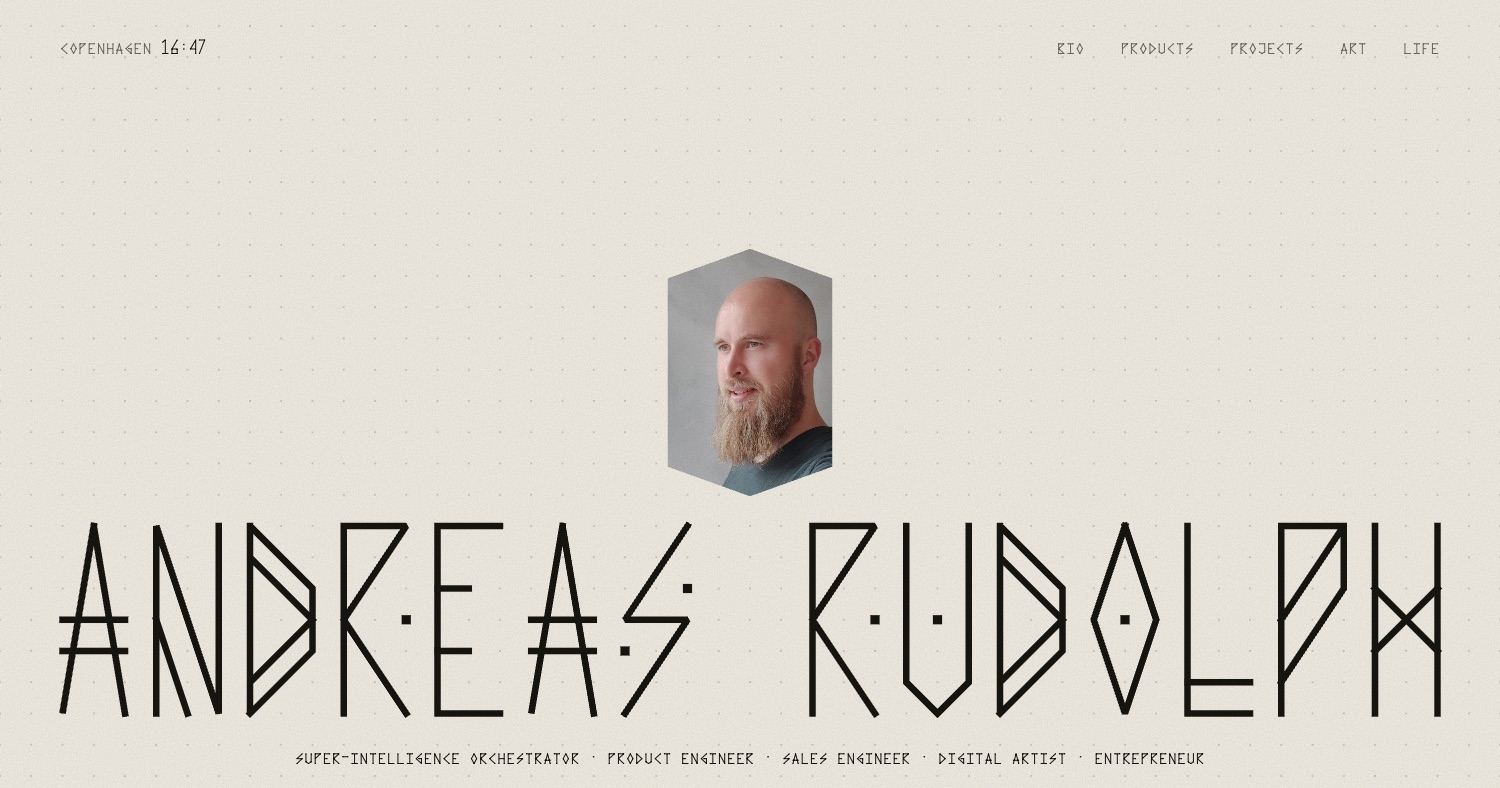
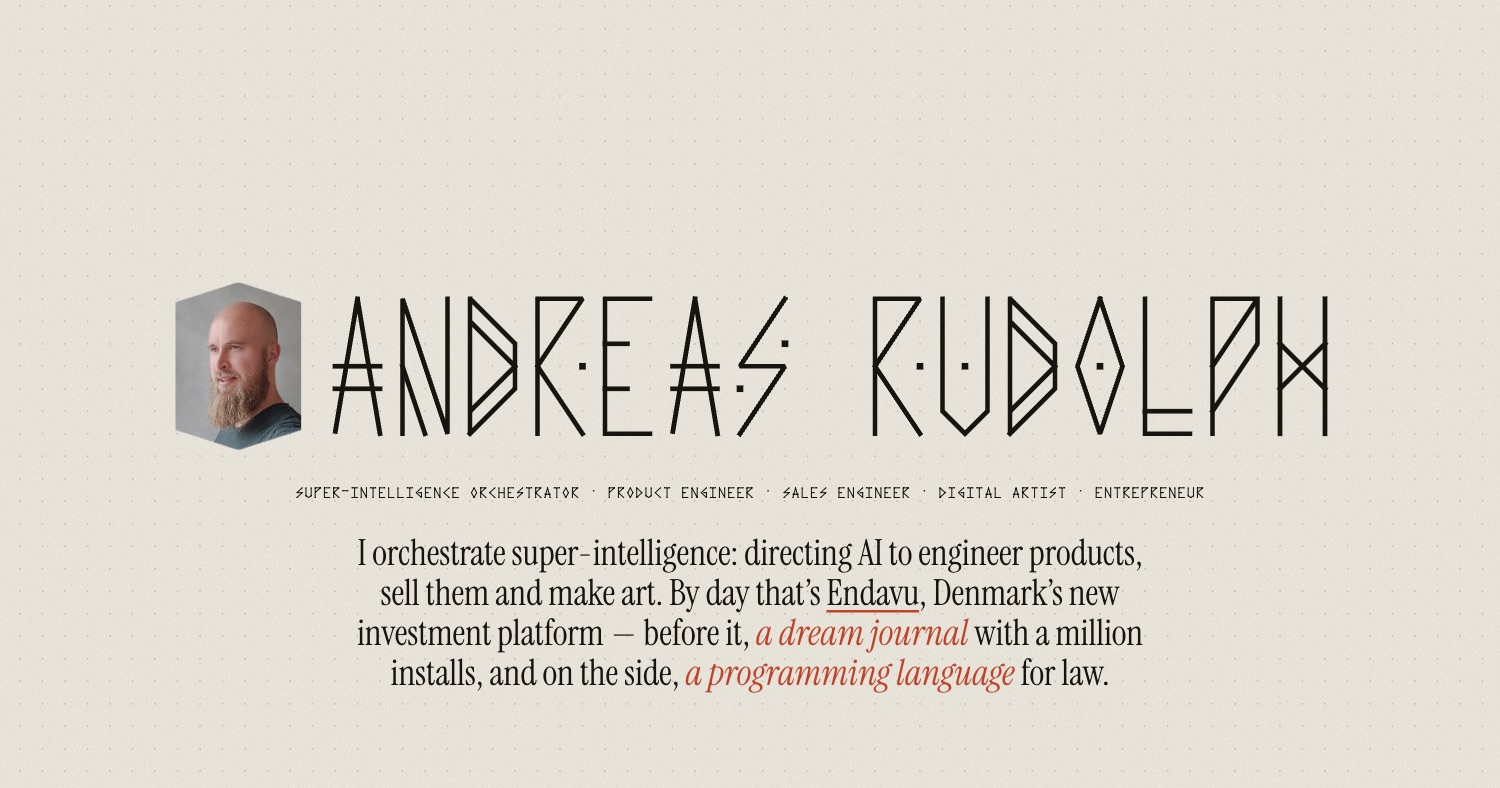
Hero: photo and name side by side, centred together; wider portrait crop on the face

diff --git a/index.html b/index.html
@@ -21,9 +21,9 @@
   <link rel="icon" href="/assets/favicon.svg" type="image/svg+xml">
   <link rel="preload" href="/assets/fonts/RunionNeo.woff2" as="font" type="font/woff2" crossorigin>
   <link rel="preload" href="/assets/fonts/InstrumentSerif-Regular.woff2" as="font" type="font/woff2" crossorigin>
-  <link rel="stylesheet" href="/assets/style.css?v=8c414fff7b">
+  <link rel="stylesheet" href="/assets/style.css?v=888e4a3266">
   <script>try{if(localStorage.getItem('mode')==='dream')document.documentElement.dataset.mode='dream'}catch(e){}</script>
-  <script type="module" src="/assets/main.js?v=833c204915"></script>
+  <script type="module" src="/assets/main.js?v=9fe5629abb"></script>
   <script type="application/ld+json">
   {"@context":"https://schema.org","@type":"Person","name":"Andreas Rudolph","url":"https://andreas-rudolph.me/","jobTitle":"Principal Product Engineer, Web & Android","worksFor":{"@type":"Organization","name":"Endavu","url":"https://endavu.com"},"description":"A Danish super-intelligence orchestrator, product engineer, sales engineer, digital artist and entrepreneur — and a father.","nationality":{"@type":"Country","name":"Denmark"},"homeLocation":{"@type":"Place","name":"Copenhagen, Denmark"},"sameAs":["https://www.linkedin.com/in/andreasrudolph","https://x.com/OneManMobile","https://github.com/OneManMobile"]}
   </script>
@@ -44,8 +44,10 @@
       </nav>
     </div>
     <div class="hero-stack">
-      <img class="hero-portrait" src="/assets/img/portrait.jpg" width="460" height="460" alt="Portrait of Andreas Rudolph">
-      <h1 class="hero-name" data-name-box><span class="sr-only">Andreas Rudolph</span></h1>
+      <div class="hero-ident">
+        <img class="hero-portrait" src="/assets/img/portrait.jpg" width="460" height="460" alt="Portrait of Andreas Rudolph">
+        <h1 class="hero-name" data-name-box><span class="sr-only">Andreas Rudolph</span></h1>
+      </div>
       <p class="label hero-role"><span>super-intelligence orchestrator</span> <span>· product engineer</span> <span>· sales engineer</span> <span>· digital artist</span> <span>· entrepreneur</span></p>
       <p class="lede">I orchestrate super-intelligence: directing AI to engineer products, sell them and make art. By day that’s <a href="https://endavu.com">Endavu</a>, Denmark’s new investment platform&thinsp;—&thinsp;before it, <em>a dream journal</em> with a million installs, and on the side, <em>a programming language</em> for law.</p>
       <p class="label swap hero-hint">

diff --git a/assets/style.css b/assets/style.css
@@ -134,18 +134,28 @@ a.label:hover { color: var(--accent); }
   text-align: center;
 }
 .hero-stack--page { align-items: flex-start; justify-content: flex-end; padding-top: clamp(64px, 12vh, 140px); text-align: left; }
+/* photo and name sit side by side; the pair is centred as one unit */
+.hero-ident {
+  align-self: stretch;
+  display: flex;
+  align-items: center;
+  justify-content: center;
+  gap: clamp(16px, 2.2vw, 36px);
+}
 .hero-portrait {
   display: block;
-  width: clamp(112px, 11vw, 168px);
+  flex: none;
+  width: clamp(92px, 8.4vw, 136px);
   height: auto;
-  aspect-ratio: 2 / 3;
+  aspect-ratio: 3 / 4;
   object-fit: cover;
-  object-position: 60% 30%;
+  object-position: 80% 30%;
   clip-path: var(--hex);
   animation: rise 1.2s .1s cubic-bezier(.2, .7, .1, 1) both;
 }
-/* the canvas draws the name inside this box; script sets its height */
-.hero-name { width: 100%; height: 160px; margin: 0; }
+/* the canvas draws the name inside this box; the script sizes it */
+.hero-name { flex: none; height: 120px; margin: 0; }
+.hero-stack--page .hero-name { width: 100%; }
 .hero-role { margin: 0; max-width: 64em; color: var(--ink); animation: rise 1.4s 1.35s cubic-bezier(.2, .7, .1, 1) both; }
 .hero-role span { white-space: nowrap; }
 .lede {
@@ -267,7 +277,7 @@ a.label:hover { color: var(--accent); }
 .bio-head .about-big { margin: 0; }
 .bio-head > :only-child { grid-column: 1 / -1; }
 .portrait { margin: 0; display: grid; gap: 12px; justify-items: center; }
-.portrait img { display: block; width: 100%; height: auto; aspect-ratio: 2 / 3; object-fit: cover; object-position: 60% 30%; clip-path: var(--hex); transition: filter .9s ease; }
+.portrait img { display: block; width: 100%; height: auto; aspect-ratio: 3 / 4; object-fit: cover; object-position: 80% 30%; clip-path: var(--hex); transition: filter .9s ease; }
 @media (hover: hover) {
   .portrait img { filter: grayscale(1) contrast(1.06); }
   .portrait:hover img { filter: none; }

diff --git a/assets/main.js b/assets/main.js
@@ -76,13 +76,20 @@ function createField(canvas, hero) {
   const box = hero.querySelector('[data-name-box]');
 
   function layout() {
-    const bw = box.clientWidth;
+    // front page: the name gets whatever width the photo leaves; sub-pages: the full column
+    const row = box.parentElement;
+    const photo = isPage ? null : row.querySelector('.hero-portrait');
+    const avail = photo
+      ? row.clientWidth - photo.offsetWidth - (parseFloat(getComputedStyle(row).columnGap) || 0)
+      : box.clientWidth;
     const words = TEXT.split(' ');
-    const oneLine = words.length === 1 || bw >= 820;
+    const fullCols = TEXT.length * 3 - 1;
+    const oneLine = words.length === 1 || avail / fullCols >= (isPage ? 12 : 13);
     const lines = oneLine ? [TEXT] : words;
     const wCols = Math.max(...lines.map((l) => l.length)) * 3 - 1;
     const hRows = lines.length * 6 + (lines.length - 1) * 3;
-    p = Math.max(8, Math.floor(Math.min(bw / wCols, isPage ? 34 : 26)));
+    p = Math.max(6, Math.floor(Math.min(avail / wCols, isPage ? 34 : 18)));
+    if (photo) box.style.width = `${wCols * p}px`;
     box.style.height = `${hRows * p}px`;
 
     const r = canvas.getBoundingClientRect();
@@ -91,15 +98,14 @@ function createField(canvas, hero) {
     dpr = Math.min(window.devicePixelRatio || 1, 2);
     canvas.width = Math.round(W * dpr);
     canvas.height = Math.round(H * dpr);
-    ox = Math.round(b.left - r.left + (isPage ? 0 : (bw - wCols * p) / 2));
+    ox = Math.round(b.left - r.left);
     oy = Math.round(b.top - r.top);
 
     cells = [];
     lines.forEach((line, li) => {
-      const shift = isPage ? 0 : Math.round((wCols - (line.length * 3 - 1)) / 2);
       Array.from(line).forEach((ch, ci) => {
         if (ch === ' ') return;
-        cells.push({ ch, col: shift + ci * 3, row: li * 9, idx: cells.length });
+        cells.push({ ch, col: ci * 3, row: li * 9, idx: cells.length });
       });
     });
 

diff --git a/art/index.html b/art/index.html
@@ -21,9 +21,9 @@
   <link rel="icon" href="/assets/favicon.svg" type="image/svg+xml">
   <link rel="preload" href="/assets/fonts/RunionNeo.woff2" as="font" type="font/woff2" crossorigin>
   <link rel="preload" href="/assets/fonts/InstrumentSerif-Regular.woff2" as="font" type="font/woff2" crossorigin>
-  <link rel="stylesheet" href="/assets/style.css?v=8c414fff7b">
+  <link rel="stylesheet" href="/assets/style.css?v=888e4a3266">
   <script>try{if(localStorage.getItem('mode')==='dream')document.documentElement.dataset.mode='dream'}catch(e){}</script>
-  <script type="module" src="/assets/main.js?v=833c204915"></script>
+  <script type="module" src="/assets/main.js?v=9fe5629abb"></script>
 </head>
 <body>
   <a class="skip label" href="#content">Skip to content</a>

diff --git a/bio/index.html b/bio/index.html
@@ -21,9 +21,9 @@
   <link rel="icon" href="/assets/favicon.svg" type="image/svg+xml">
   <link rel="preload" href="/assets/fonts/RunionNeo.woff2" as="font" type="font/woff2" crossorigin>
   <link rel="preload" href="/assets/fonts/InstrumentSerif-Regular.woff2" as="font" type="font/woff2" crossorigin>
-  <link rel="stylesheet" href="/assets/style.css?v=8c414fff7b">
+  <link rel="stylesheet" href="/assets/style.css?v=888e4a3266">
   <script>try{if(localStorage.getItem('mode')==='dream')document.documentElement.dataset.mode='dream'}catch(e){}</script>
-  <script type="module" src="/assets/main.js?v=833c204915"></script>
+  <script type="module" src="/assets/main.js?v=9fe5629abb"></script>
 </head>
 <body>
   <a class="skip label" href="#content">Skip to content</a>

diff --git a/life/index.html b/life/index.html
@@ -21,9 +21,9 @@
   <link rel="icon" href="/assets/favicon.svg" type="image/svg+xml">
   <link rel="preload" href="/assets/fonts/RunionNeo.woff2" as="font" type="font/woff2" crossorigin>
   <link rel="preload" href="/assets/fonts/InstrumentSerif-Regular.woff2" as="font" type="font/woff2" crossorigin>
-  <link rel="stylesheet" href="/assets/style.css?v=8c414fff7b">
+  <link rel="stylesheet" href="/assets/style.css?v=888e4a3266">
   <script>try{if(localStorage.getItem('mode')==='dream')document.documentElement.dataset.mode='dream'}catch(e){}</script>
-  <script type="module" src="/assets/main.js?v=833c204915"></script>
+  <script type="module" src="/assets/main.js?v=9fe5629abb"></script>
 </head>
 <body>
   <a class="skip label" href="#content">Skip to content</a>

diff --git a/products/index.html b/products/index.html
@@ -21,9 +21,9 @@
   <link rel="icon" href="/assets/favicon.svg" type="image/svg+xml">
   <link rel="preload" href="/assets/fonts/RunionNeo.woff2" as="font" type="font/woff2" crossorigin>
   <link rel="preload" href="/assets/fonts/InstrumentSerif-Regular.woff2" as="font" type="font/woff2" crossorigin>
-  <link rel="stylesheet" href="/assets/style.css?v=8c414fff7b">
+  <link rel="stylesheet" href="/assets/style.css?v=888e4a3266">
   <script>try{if(localStorage.getItem('mode')==='dream')document.documentElement.dataset.mode='dream'}catch(e){}</script>
-  <script type="module" src="/assets/main.js?v=833c204915"></script>
+  <script type="module" src="/assets/main.js?v=9fe5629abb"></script>
 </head>
 <body>
   <a class="skip label" href="#content">Skip to content</a>

diff --git a/projects/index.html b/projects/index.html
@@ -21,9 +21,9 @@
   <link rel="icon" href="/assets/favicon.svg" type="image/svg+xml">
   <link rel="preload" href="/assets/fonts/RunionNeo.woff2" as="font" type="font/woff2" crossorigin>
   <link rel="preload" href="/assets/fonts/InstrumentSerif-Regular.woff2" as="font" type="font/woff2" crossorigin>
-  <link rel="stylesheet" href="/assets/style.css?v=8c414fff7b">
+  <link rel="stylesheet" href="/assets/style.css?v=888e4a3266">
   <script>try{if(localStorage.getItem('mode')==='dream')document.documentElement.dataset.mode='dream'}catch(e){}</script>
-  <script type="module" src="/assets/main.js?v=833c204915"></script>
+  <script type="module" src="/assets/main.js?v=9fe5629abb"></script>
 </head>
 <body>
   <a class="skip label" href="#content">Skip to content</a>
